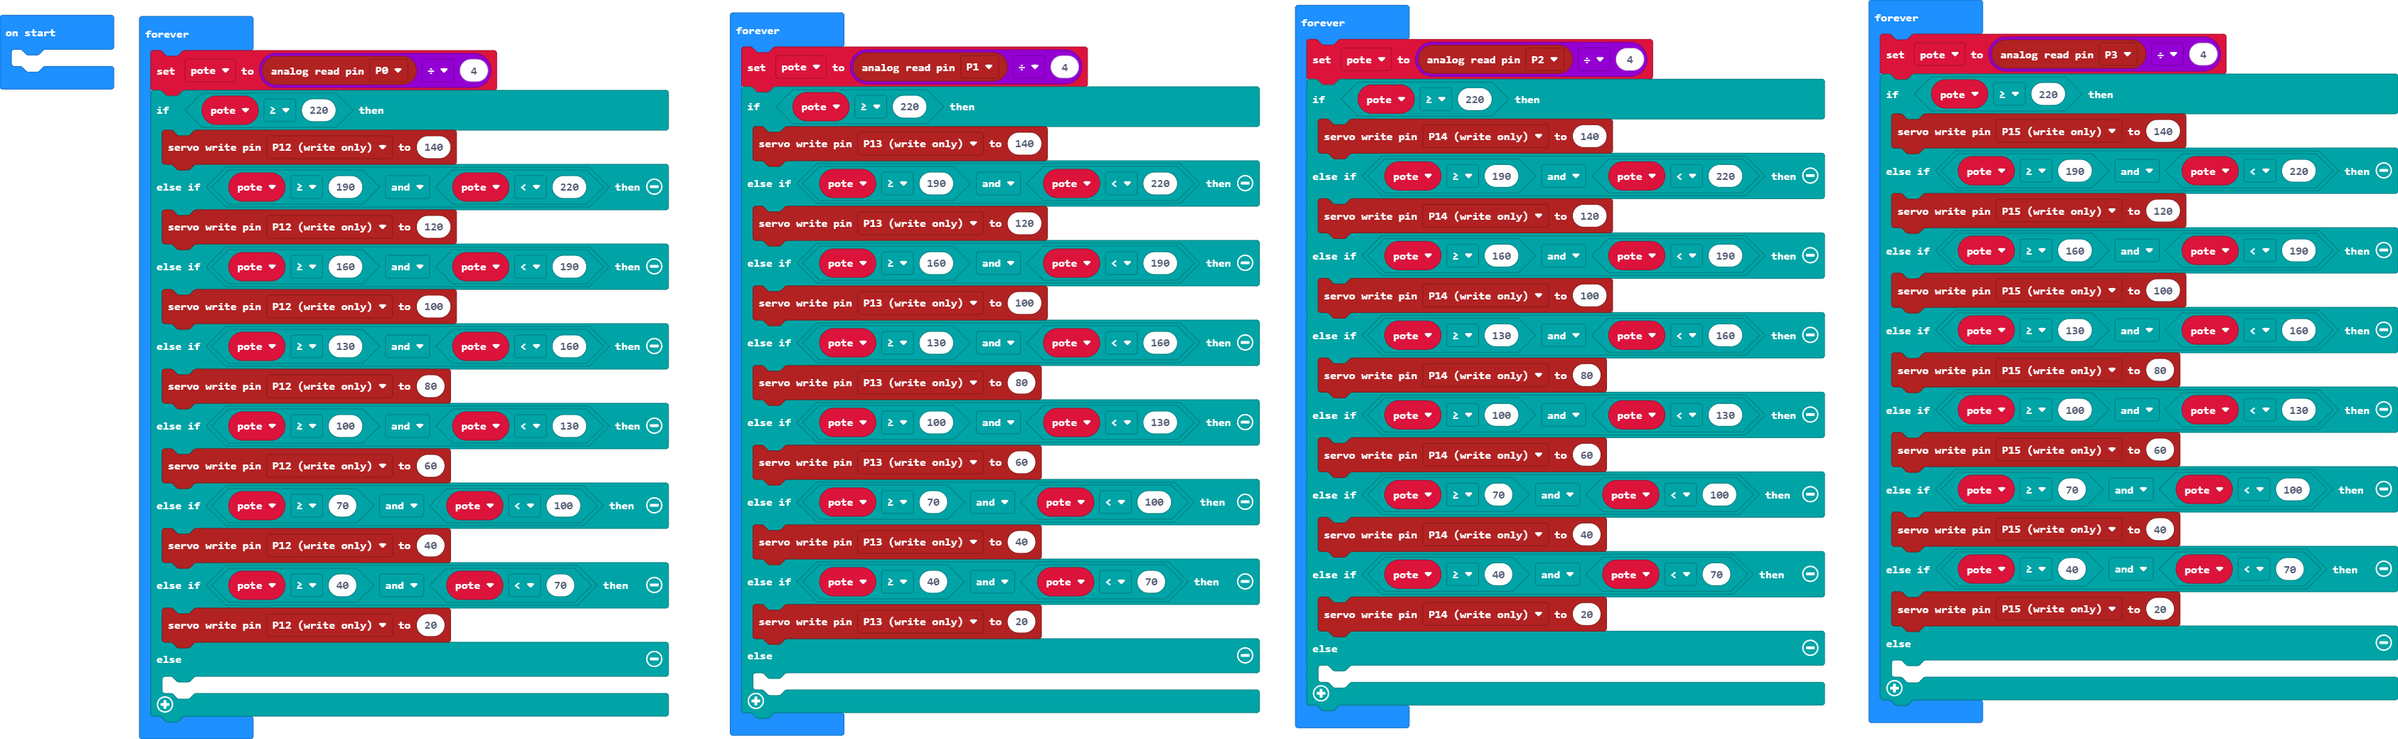
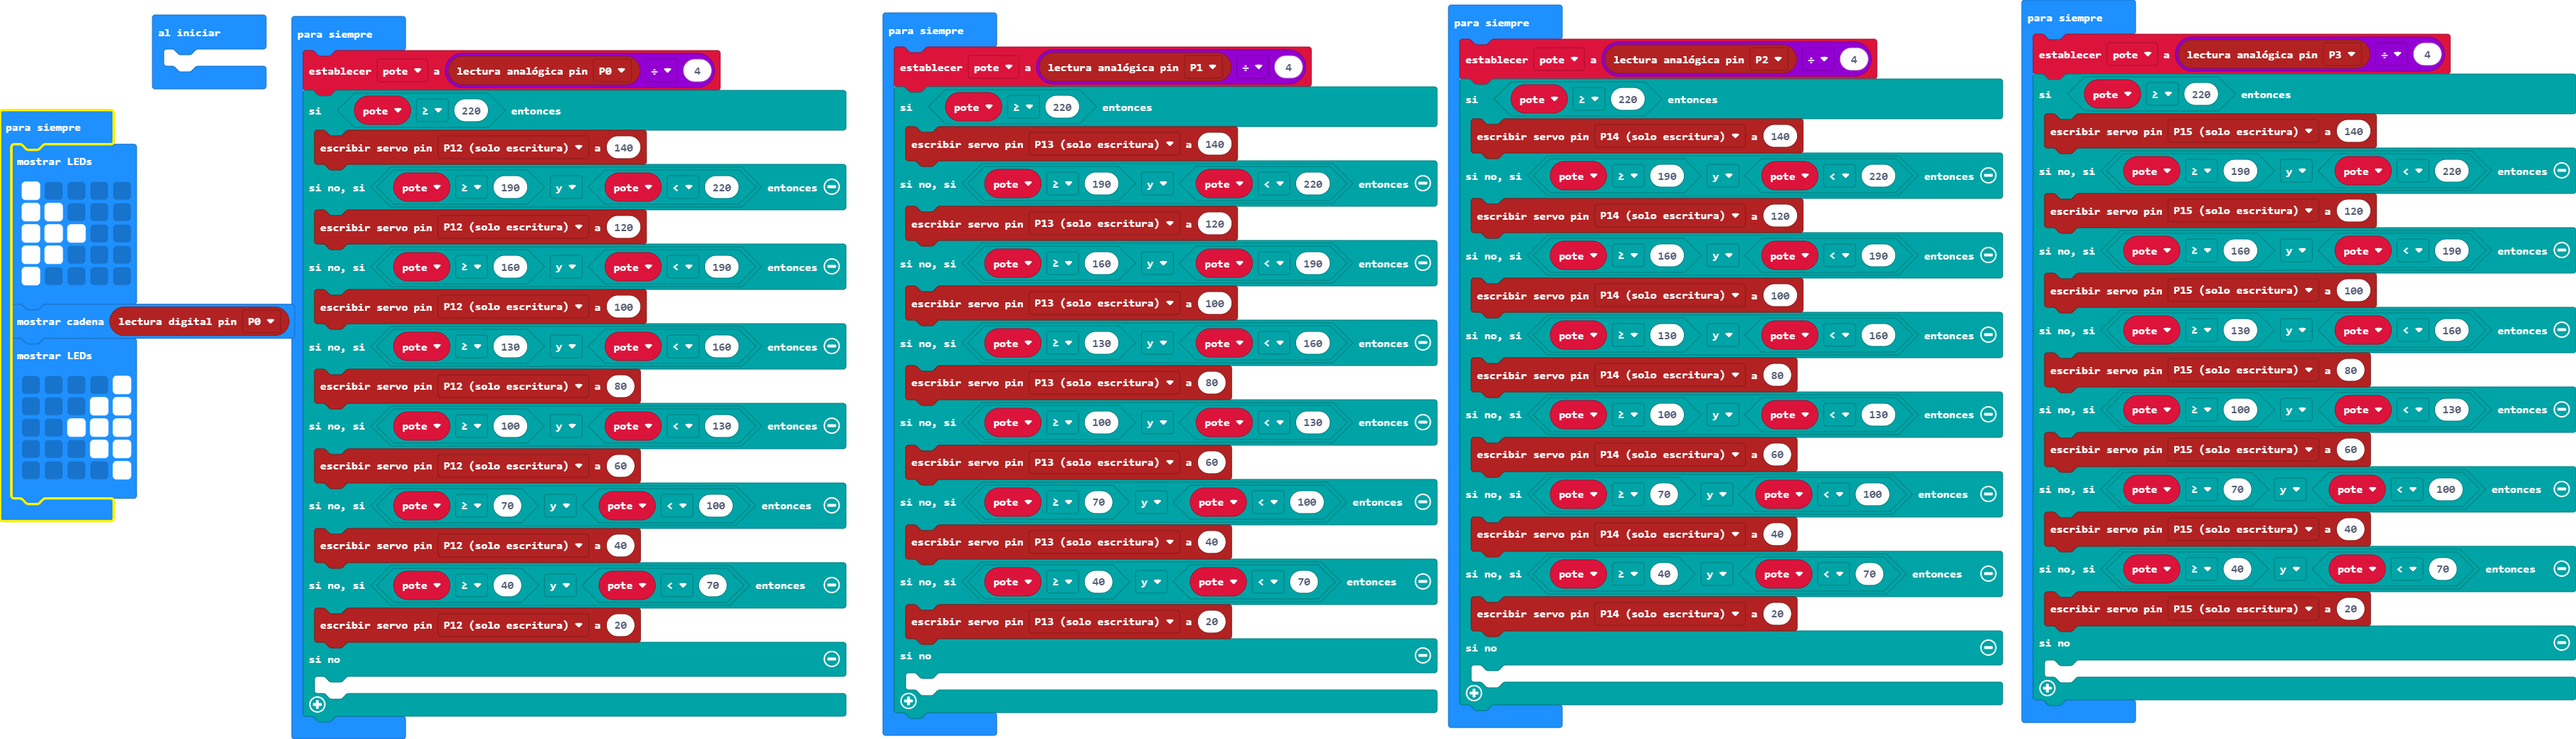
Se suma la lectura del potenciómetro

diff --git a/main.ts b/main.ts
@@ -79,3 +79,20 @@ basic.forever(function () {
     	
     }
 })
+basic.forever(function () {
+    basic.showLeds(`
+        # . . . .
+        # # . . .
+        # # # . .
+        # # . . .
+        # . . . .
+        `)
+    basic.showString("" + (pins.digitalReadPin(DigitalPin.P0)))
+    basic.showLeds(`
+        . . . . #
+        . . . # #
+        . . # # #
+        . . . # #
+        . . . . #
+        `)
+})
